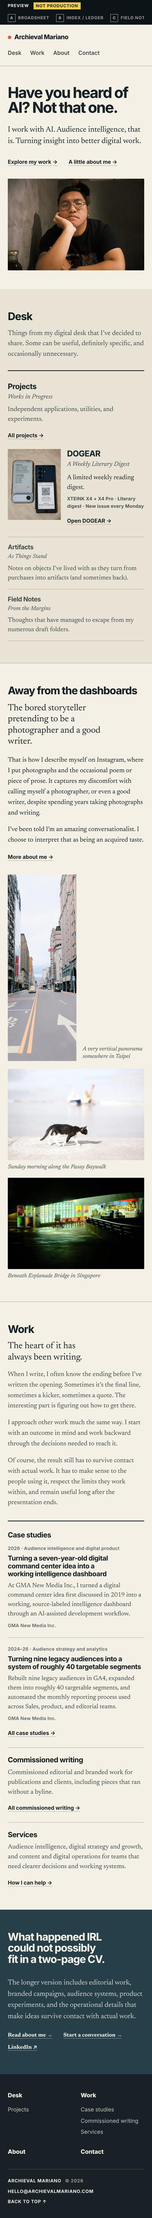
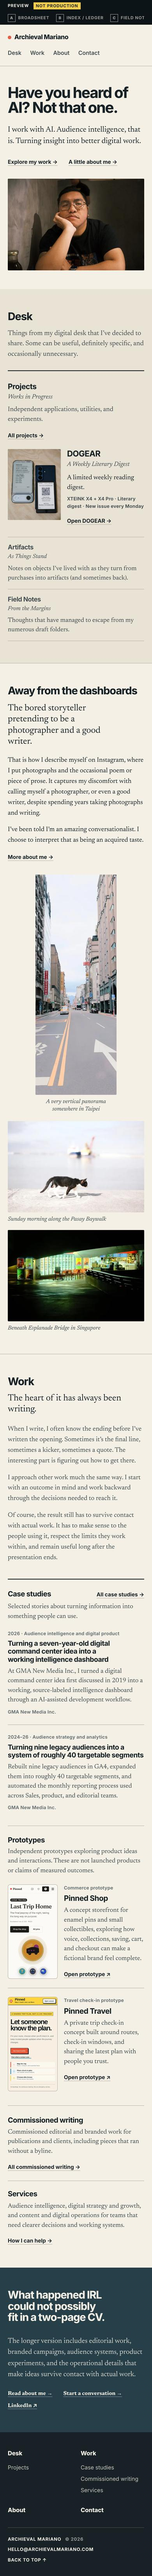
Refine exploration D: sequential Work, Prototypes, mobile photos
Sixth iteration of D · Quiet Personal Site (preview only):

- Work follows the mobile reading order on desktop: the approved
  introduction in one reading column, then Case studies (two entries side
  by side, full width), then Prototypes, then Commissioned writing and
  Services sharing a compact final row. The three-column arrangement is
  removed.
- Prototypes: Pinned Shop and Pinned Travel return to the homepage under
  Work, with their existing Work-page labels, descriptions, and caveat
  (not launched products or claims of measured outcomes), and links to
  /pinned-shop/ and /pinned-travel/.
- Prototype screenshots (preview-only assets in src/assets/preview/):
  captured from local builds of the public repositories at cb9a8a3 and
  1a6059a (read-only clones; nothing pushed), 390×844 at 2×, cropped to
  the top 740 CSS px, above Pinned Travel's map, whose OpenStreetMap tiles
  are unreachable here. Nothing drawn or edited.
- Mobile photography: the Taipei panorama gets its own centred row at its
  native proportions, with its caption directly beneath; the desktop
  layout is unchanged.
- The gate test asserts that the prototypes sit inside Work with their
  caveat, and that the preview-only screenshots never reach a production
  build.

Production and CI builds remain byte-identical to main.

Claude-Session: https://claude.ai/code/session_01MTmP2g4QmM7hkFLhRYRRGJ

diff --git a/src/data/homePreview.ts b/src/data/homePreview.ts
@@ -36,6 +36,6 @@ export const homeVariants: HomeVariant[] = [
     number: 'D',
     name: 'Quiet Personal Site',
     summary:
-      'Approved direction. A restrained evolution of the current homepage, with approved copy, the full portrait, Desk rows that expand as sections publish, personal photography, and a single-column Work introduction.',
+      'Approved direction. A restrained evolution of the current homepage, with approved copy, the full portrait, adaptive Desk rows, personal photography, and a sequential Work section with case studies, prototypes, writing, and services.',
   },
 ];

diff --git a/docs/redesign/home-explorations/README.md b/docs/redesign/home-explorations/README.md
@@ -1,6 +1,6 @@
 # Homepage explorations — four directions
 
-Status: **D · Quiet Personal Site is the selected foundation** and is now in its fifth iteration (approved copy, the full uncropped portrait, and a single-column Work introduction). A–C are kept for reference only and are no longer developed. Nothing here is approved for production.
+Status: **D · Quiet Personal Site is the selected foundation** and is now in its sixth iteration (a sequential Work section with Prototypes restored under Work, and a mobile photography fix). A–C are kept for reference only and are no longer developed. Nothing here is approved for production.
 
 Exploration 01 for repositioning archievalmariano.com from a professional portfolio
 into a personal archive: professional work, independent software, experiments,
@@ -144,13 +144,75 @@ photography into one visual language. **Risks:** the most art-directed, so the
 hardest to keep maintainable. The regional plate only stays meaningful if more
 located material is added over time.
 
-## D · Quiet Personal Site — iteration 5 (selected foundation)
+## D · Quiet Personal Site — iteration 6 (selected foundation)
 
-*Approved direction.* Iteration 5 applies the author-approved copy, restores the full
-portrait, and adjusts the layout around the new text. Screenshots:
-[desktop, 1440px](quiet-desktop-full.jpg) · [mobile, 390px](quiet-mobile-full.jpg).
+*Approved direction.* Iteration 6 restructures the desktop Work section, returns
+the Pinned prototypes to the homepage under Work, and fixes the mobile photo
+gallery. Screenshots: [desktop, 1440px](quiet-desktop-full.jpg) ·
+[mobile, 390px](quiet-mobile-full.jpg).
 
-### Iteration 5 changes
+### Iteration 6: Work structure
+
+The desktop Work section now follows the same sequence as mobile:
+
+1. **Introduction:** “Work”, then the approved subheading, then the three approved
+   paragraphs, all in one reading column (40rem maximum). Nothing is split
+   across columns.
+2. **Case studies:** a full-width group. Its heading line holds the name, the
+   existing description, and “All case studies →”, followed by the two selected
+   case studies side by side (about 580px each at 1440px), with metadata, title,
+   description, and organisation from the existing entries.
+3. **Prototypes:** a full-width group. Its heading line holds the name and the
+   existing Work-page caveat (“Independent prototypes exploring product ideas and
+   interactions. These are not launched products or claims of measured
+   outcomes.”). Pinned Shop and Pinned Travel follow side by side, each with a
+   10rem screenshot, its existing label (“Commerce prototype” / “Travel check-in
+   prototype”), its existing description, and “Open prototype ↗”, linking to
+   `/pinned-shop/` and `/pinned-travel/`. No functionality, metrics, adoption, or
+   outcomes are claimed.
+4. **Commissioned writing / Services:** a compact final row of two columns, each
+   with its existing description and link (`/writing/`, `/services/`).
+
+Groups are separated by hairline rules. On mobile everything stacks in the same
+order, and each prototype keeps its screenshot beside its text. The earlier
+three-column arrangement is gone.
+
+### Iteration 6: Pinned prototype screenshots (provenance)
+
+The portfolio repository had no Pinned imagery. Pinned Shop's own `public/og.png`
+was considered, but it is a social card showing the fictional brand's domain, not
+the prototype. The two screenshots used were made as follows:
+
+- **Sources:** the public repositories `archievalmariano/pinned-shop` at
+  `cb9a8a3` and `archievalmariano/pinned-travel` at `1a6059a` (both 2026-08-18),
+  cloned **read-only** into a scratch directory. Nothing was committed or pushed
+  to either repository.
+- **Build:** each built locally with its own unmodified build (`astro build` /
+  `vite build`), served under its real base path (`/pinned-shop/`,
+  `/pinned-travel/`).
+- **Capture:** each homepage at 390×844 CSS px, 2× scale, with Chromium
+  (Playwright). Both are cropped to the top 740 CSS px, saved as
+  `src/assets/preview/pinned-{shop,travel}-prototype-mobile.jpg` (780×1480).
+- **Fidelity:**
+  - Pinned Shop loaded with **zero** failed requests.
+  - Pinned Travel's only failed requests were OpenStreetMap map tiles, which this
+    environment cannot reach. Its map starts 759 CSS px down the mobile page, so
+    the 740px crop is entirely above it and contains no map. Nothing in either
+    image was drawn, edited, or composited.
+- **Preview only:** the images are imported only by D, so production builds do
+  not contain them. The gate test asserts this, along with byte-identity.
+
+For parity with the live site, replace these files with captures from
+archievalmariano.com at the same size.
+
+### Iteration 6: mobile photography
+
+On mobile, the Taipei panorama now sits in its own centred row: the whole image at
+its native 0.37 ratio, 13rem wide, with its caption centred directly beneath.
+The Pasay Baywalk and Esplanade Bridge photographs follow at full width, at their
+own proportions, with their captions. The desktop arrangement is unchanged.
+
+### Iteration 5 changes (retained)
 
 - **Approved copy:** all section copy is the author-approved text, kept in a single
   `copy` object at the top of `Quiet.astro` (not in the shared `archive.ts`, so A–C
@@ -226,8 +288,8 @@ Expansion uses the existing gate (`isPublished()` in `src/data/desk.ts`, read
 only); the gate is unchanged. An editorial entry shows its own hero image if it
 has one, otherwise it is text only, with a serif title. The featured project is
 still data-driven: the registry's `featured` flag, with `order` as fallback.
-ON POINT, GOTO, Tools, and the Pinned prototypes are reached through
-`/desk/projects/` and their own pages.
+ON POINT, GOTO, and Tools are reached through `/desk/projects/` and their own
+pages. The Pinned prototypes are featured under Work (iteration 6).
 
 All three states are checked by `scripts/home-preview-gate-test.sh`, using the
 existing synthetic fixtures inside the test only. No fixture content is committed
@@ -250,14 +312,8 @@ width. The section's top and bottom spacing is unchanged.
 
 ### Work categories
 
-- **Categories:** one row of three columns under Work, separated by hairlines:
-  - **Case studies** (wider column): two selected entries plus “All case
-    studies →”.
-  - **Commissioned writing:** the existing `/writing/` description plus “All
-    commissioned writing →”. No article is featured.
-  - **Services:** the existing one-sentence Services description plus “How I can
-    help →”.
-- No destination page or URL changed.
+- Superseded by the iteration 6 Work structure above. No destination page or URL
+  changed.
 
 ### Editorial style
 
